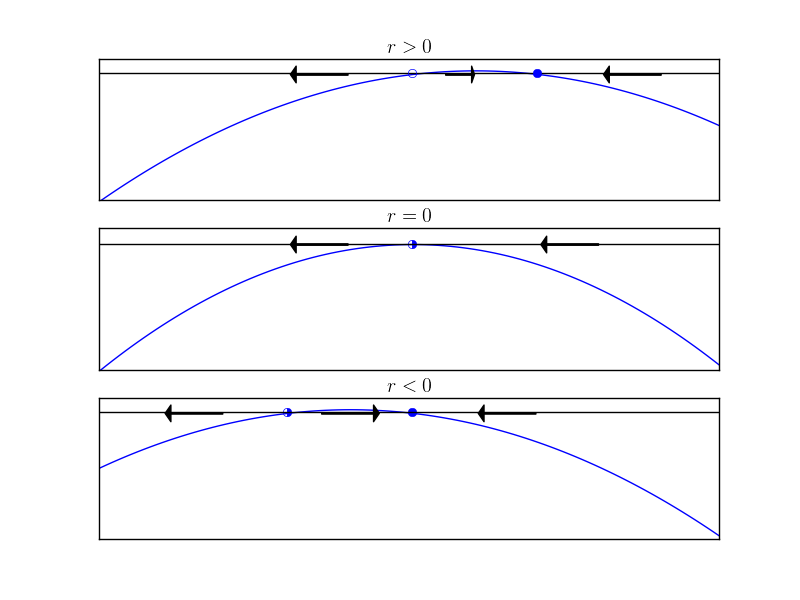
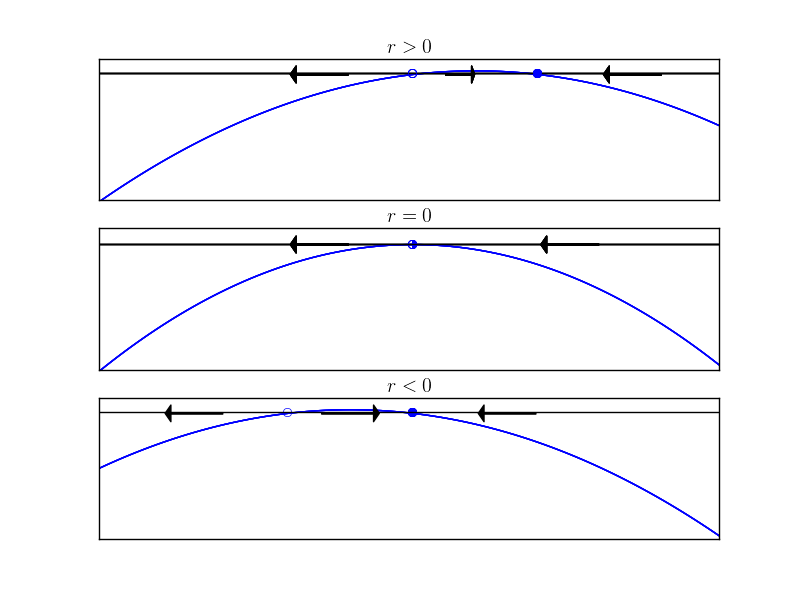
fix plot

diff --git a/assets/bifurcation/transcritical.py b/assets/bifurcation/transcritical.py
@@ -67,7 +67,7 @@ if __name__ == "__main__":
     xdot = r*x - x**2
     ax.plot(x,xdot,'b-')
     ax.plot(0,0,'bo',fillstyle='full',mec='b')
-    ax.plot(r,0,'bo',fillstyle='right',mec='b')
+    ax.plot(r,0,'bo', mfc='none',mec='b')
     ylim([min(xdot)-1,max(xdot)+3])
     xlim([min(x),max(x)])
     ax.plot(x,zeros_like(x),'k-')
